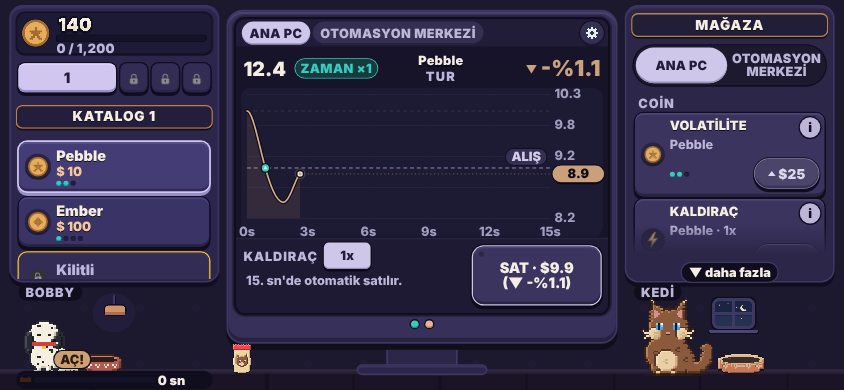
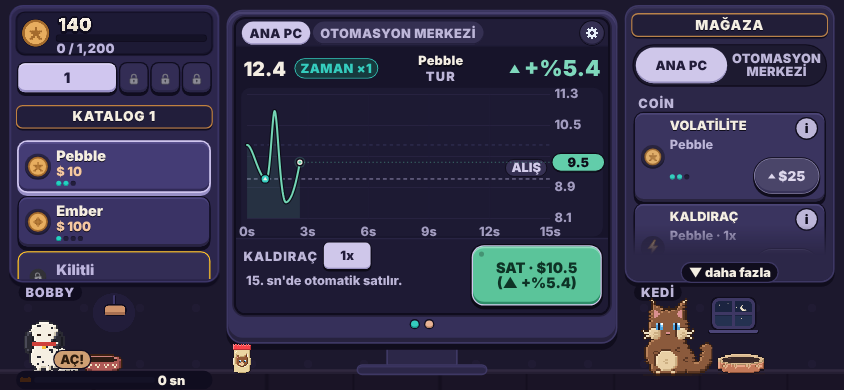
Tasarım Tur2 Adım 4: telefon okunurluğu (≥12 px), yüzde eşitliği, Ortak tavsiye 3 — smoke 63/63
Claude-Session: https://claude.ai/code/session_01VDVDeJVYoXzWZHeVKGLAfX

diff --git a/docs/tasarim/canli/tur-2.md b/docs/tasarim/canli/tur-2.md
@@ -222,3 +222,53 @@ Kâr anı artık gerçekten tatmin edici: nane çizgi, ▲, nane SAT ve kısa "+
 4. Boss: ince sönük kenar + coin adının yanında sabit "BOSS" hapı (dolgu doygunluğu en çok %35, animasyon yok); "KALDIRAÇ kullanılamaz" için tek satır ipucu, en az 12 px.
 5. Telefonda (Adım 4) tüm yazı en az 12 px, normal metin 4.5:1, ikon/kenar 3:1; dokunma hedefleri en az 44 px; "daha fazla" şeridi hiçbir kartı örtmesin.
 6. Afiş turuncu kenarı bir ton sönük (#B9824A civarı); ekranda tek parlak turuncu BAŞLA kalsın; ikonlar (coin, şimşek, kemik) en fazla iki renk ve soluk kontur, altın yalnız hedef kartta.
+
+## Adım 4 — Tasarımcı: Danışma 4
+
+**Ne yaptım**
+- **Telefon kipi (TEL):** fit(), ölçeğin 0,6'nın altına düştüğü yatay telefonlarda telefon kipine geçiyor:
+  - Ekran 16:9'dan genişse sahne yatayda genişliyor (konsept-2 yaklaşımı).
+  - Monitör alanı daralıyor, yan sütunlar genişliyor (667'de 340 → 400 px, 844'te 480 px).
+  - Sahnedeki tüm yazıların tabanı 30 px; yazı küçültme yok.
+  - İkincil bilgi gizlendi: monitör çenesindeki "TRADE-OS 3000" yazısı, sistem çubuğundaki "TRADE-OS" etiketi, "POZİSYON · TUR" alt satırı.
+  - Alt şerit ızgaraya alındı (kaldıraç üstte, not altta, ana düğme sağda). SAT etiketi telefonda iki satır: fiyat / (▲▼ yüzde).
+  - Grafik ve robot bölmesi yazıları da telefonda 30 px.
+  - Masaüstü (1440x900, 1024x640) düzeni değişmedi.
+- **Ölçüm (gerçek piksel = computed font-size × sahne ölçeği):**
+
+  | Ekran | Ölçek | 12 px altı yazı |
+  |---|---|---|
+  | 667x375 | 0,400 | 0/46 (ana), 0/47 (işlem), EN 0/46 |
+  | 844x390 | 0,425 | 0/46 (ana), 0/37 (otomasyon) |
+
+  En küçük sahne yazısı 30 px, yani 667'de 12,0 px, 844'te 12,75 px. Canvas yazıları (eksen, ALIŞ, fiyat etiketi, robot bölmesi) da telefonda 30 px.
+- **Dokunma hedefleri:** Gerçek dokunulabilir alan merkezden dört yöne `elementFromPoint` ile ölçüldü. Görünmez genişletme kullanıldı (`::after`; kapatma düğmesinde şeffaf kenarlık). 44 px altında kalanlar:
+  - Mağazadaki ilk fiyat hapı: 39 px (667) / 42 px (844).
+  - Kilitli katalog sekmeleri: devre dışı, dokunulmaz.
+  - Kedi kabı (`#bowl`): sürükle-bırak hedefi, düğme değil.
+  - Diğer tüm düğmeler ≥44 px.
+- **İki hata:**
+  1. Başlıktaki yüzde ile SAT yüzdesi artık aynı fonksiyondan (`satTxt`), aynı fiyatla ve aynı anda yazılıyor. Daha önce başlık her karede, SAT fiyat değişince güncelleniyordu; arada bir fiyat adımı kayıyordu. Doğrulama: masaüstü ve 667x375'te 120 örnek, fark 0.
+  2. "daha fazla" şeridi panelin kendi alt şeridinde, hiçbir kartı örtmüyor. Şeridin üstündeki yarım kart artık 70 px'lik yumuşak bir geçişle soluyor; "kesik" değil "devamı var" diye okunuyor.
+- **Adım 3'te fark ettiğim iki sorun:** Güncel fiyat noktası ve kesikli çizgisi grafik alanına sıkıştırıldı, eksen yazılarının üstünden geçmiyor. Tur sonu fişi eksen sayılarından uzaklaştırıldı (sağdan 86 px; telefonda 140 px).
+
+**Ortak tavsiye 3'ü nasıl uyguladım**
+1. Aktif SAT (kâr ve zarar): 3 px lila-krem kenar ve 6 px alt basamak. Zararda krem yazı (kârda nane zeminde koyu yazı, okunurluk için). Pasif ana düğme yassı: kenar ve gölge yok. Yeni renk yok.
+2. Zarar çizgisi 4 px, kâr çizgisi 5 px. Çizgi ve alan dolgusu grafik alanına kırpılıyor.
+3. Yüzde eşitliği: yukarıdaki 1. hata.
+4. Boss: coin adının yanında sabit, sönük "BOSS" hapı (#4E3A55; telefonda "TUR" satırında). Kaldıraç alanında tek satır ipucu: "Boss coininde kaldıraç kullanılamaz" (EN çevirisi var; telefonda 30 px = 12 px).
+5. Telefon: yazı ≥12 px ve dokunma alanı ≥44 px (istisnalar yukarıda). Kontrast Adım 2–3 değerlerinde (≥4,5:1).
+6. Afiş kenarı #B9824A. Turuncu yalnız BAŞLA'da; Bobby'nin enerji düğmesi şeftali, "AÇ!" etiketi sönük kehribar.
+
+**Not (ikonlar):** Yönetici'nin "ikonlara girme" mesajı geldiğinde şunlar zaten yapılmıştı:
+- coin ikonları ve mağaza ikonları (iki renk + sönük kontur, SVG)
+- Bobby'nin grafik işaretlerindeki neon yeşil/kırmızı → nane/kehribar
+- Bobby kabının kademe renklerinde doygunluk %40 az
+
+Yeni yön gelirse bunları geri alabilirim: `ICONS` / `ICN` vektör bloğu ve `BOWLC`.
+
+**Bakılacak görüntüler:** `docs/tasarim/son/tel_tr_ana.png`, `tel_tr_islem.png` (844x390), `desk_tr_ana.png`, `desk_tr_islem.png`, `desk_tr_oto.png`, `desk_tr_ayar.png`, `desk_en_ana.png`.
+
+**Psikologlara sorular**
+1. Telefonda yazılar büyüdü, buna karşılık listede aynı anda daha az kart görünüyor (solda yaklaşık 2,5 kart, mağazada 2 kart). Bu takas kabul edilebilir mi?
+2. Telefonda SAT etiketinin iki satır olması (fiyat / yüzde) okunuyor mu, yoksa telefonda yalnız yüzde mi gösterilsin?
